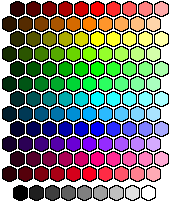
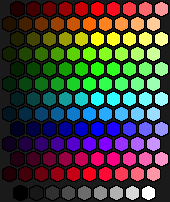
add selection color in the palette

diff --git a/app/views/haveSquares/sidebar.scala.html b/app/views/haveSquares/sidebar.scala.html
@@ -10,7 +10,23 @@
         <!-- Sidebar Links -->
         <div class="sidebar-link col-disable">
             <ul class="list-unstyled">
-                <li id="january"><a href="/get-squares/january" class="animated"> January <i class="fa fa-angle-double-right"></i></a></li>
+                <li id="january">
+                    <a href="/get-squares/january" class="animated"> January <i class="fa fa-angle-double-right"></i></a>
+                    <div id="palette">
+                        <img id="paletteImg" src="@routes.Assets.versioned("images/paletteHor.png")"">
+                        <div class="row">
+                            <div class="col-md-3">
+                                <span class="btn" id="selectedColor"></span>
+                            </div>
+
+                            <!-- Button -->
+                            <div class="col-md-9">
+                                <button class="btn btn-default btn-circle">coucou <i class="fa fa-angle-right"></i></button>
+                            </div>
+
+                        </div>
+                    </div>
+                </li>
                 <li id="february"><a href="/get-squares/february" class="animated"> February <i class="fa fa-angle-double-right"></i></a></li>
                 <li id="march"><a href="/get-squares/march" class="animated"> March <i class="fa fa-angle-double-right"></i></a></li>
 

diff --git a/public/stylesheets/haveSquares.css b/public/stylesheets/haveSquares.css
@@ -1,9 +1,12 @@
+@import "main.less";
+
 .squares{
     width: 100%;
     background-color: #222;
 }
 .selectedSquare{
     background-color: blue;
+
 }
 
 #graySquare{
@@ -20,4 +23,42 @@
     position: absolute;
     background-color: transparent;
     z-index: 2;
+    cursor: url("/assets/images/brush.png"), copy !important;
+}
+
+
+
+
+/* for the palette */
+/* TODO: Faire ca en less */
+#palette{
+    background-color: #222;
+    border: 3px groove #e63131;
+    padding: 5px;
+    padding-left: 6px;
+
+}
+#palette > div>div{
+    margin-bottom: 5px;
+}
+
+#palette img{
+    width: 100%;
+    margin-bottom: 10px;
+    cursor: url("/assets/images/pipette.png"), copy !important;
+
+}
+#palette span{
+    width: 96%;
+    height: 34px;
+    margin: 1%;
+    border: 2px solid black !important;
+    cursor: default;
+    background-color: white;
+}
+
+#palette button{
+    width: 96%;
+    height: 32px;
+    margin: 1%;
 }

diff --git a/public/javascripts/haveSquares/select-color.js b/public/javascripts/haveSquares/select-color.js
@@ -1,0 +1,26 @@
+(function(){
+
+
+//    create a canvas for get the color
+    var img = document.getElementById('paletteImg');
+    var canvas = document.createElement('canvas');
+    canvas.width = img.width;
+    canvas.height = img.height;
+    var context = canvas.getContext('2d')
+    context.drawImage(img, 0, 0, img.width, img.height);
+
+//   display the color in the square for the color colected
+    var selectedColor = document.getElementById('selectedColor');
+
+    img.addEventListener('click', function(e) {
+        var coords = this.relMouseCoords(e);
+        var data = context.getImageData(coords.x, coords.y + 14, 1, 1).data; // minus the misplace of the the brush
+        var rgba = 'rgba(' + data[0] + ',' + data[1] + ',' + data[2] + ',' + data[3] + ')';
+        selectedColor.style.backgroundColor = rgba;
+
+    }, false);
+
+
+})();
+
+

diff --git a/app/assets/stylesheets/main.less b/app/assets/stylesheets/main.less
@@ -5,6 +5,7 @@ Designed by : http://responsivewebinc.com
 
 /* less import*/
 
+@background-black: #222;
 @black: #292929;
 @light-black: #2D2D2D;
 @very-light-black: #363636;
@@ -997,7 +998,7 @@ strong{
 	color: #fff;
 }
 
-a.btn-circle i,
+.btn-circle i,
 .view-button a i{
 	display: inline-block;
 	margin-left: 3px;
@@ -1010,7 +1011,7 @@ a.btn-circle i,
 	border-radius: 40px;
 }
 
-a.btn-default i{
+.btn-default i{
 	border: 1px solid #444;
 }
 
@@ -1649,6 +1650,7 @@ a.btn-default i{
 .inner-page .contactus-content .content-item p{
 	font-size: 13px;
 	line-height: 23px;
+	text-align: center;
 }
 
 .inner-page .contactus-content a{

diff --git a/public/javascripts/select-squares.js b/public/javascripts/select-squares.js
@@ -1,8 +1,9 @@
 function coordsIntheCanvas(coordsMouse){
 
+
     // index of the little square that have the event
-    var xi = Math.floor(coordsMouse.x/littleSL);
-    var yi = Math.floor(coordsMouse.y/littleSL);
+    var xi = Math.floor((coordsMouse.x)/littleSL);
+    var yi = Math.floor((coordsMouse.y + 16)/littleSL); // minus the misplace of the the brush
 
     // coord in pixel of the little square that have the event
     var x = xi * littleSL;

diff --git a/app/views/haveSquares/js.scala.html b/app/views/haveSquares/js.scala.html
@@ -43,3 +43,6 @@
     selectSquares(canvasToDraw);
 
 </script>
+
+<!--deal with the color selection in the palette-->
+<script src="@routes.Assets.versioned("javascripts/haveSquares/select-color.js")"> </script>

diff --git a/public/javascripts/relMouseCoords.js b/public/javascripts/relMouseCoords.js
@@ -17,3 +17,4 @@ function relMouseCoords(event){
     return {x:canvasX, y:canvasY}
 }
 HTMLCanvasElement.prototype.relMouseCoords = relMouseCoords;
+HTMLImageElement.prototype.relMouseCoords = relMouseCoords;
